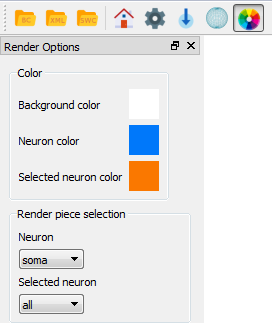
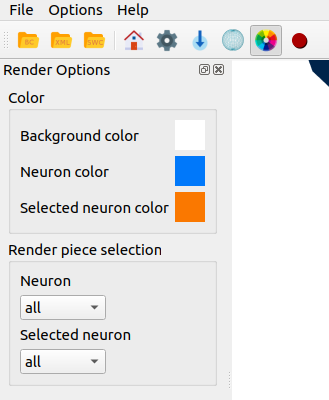
Version 0.2.0. Added recorder & updated runbook screenshots.

diff --git a/source/conf.py b/source/conf.py
@@ -18,11 +18,11 @@
 # -- Project information -----------------------------------------------------
 
 project = 'NeuroTessMesh'
-copyright = '2021, Universidad Rey Juan Carlos'
+copyright = '2022, Universidad Rey Juan Carlos'
 author = 'Félix de las Pozas Álvarez'
 
 # The full version, including alpha/beta/rc tags
-release = '0.1.1'
+release = '0.2.0'
 
 
 # -- General configuration ---------------------------------------------------
@@ -67,9 +67,9 @@ latex_maketitle = r'''
 \begin{center}
   \includegraphics[width=6cm,height=6cm]{neurotessmesh.png}\\[8ex]
   {\Huge NeuroTessMesh Documentation}\\[4ex]
-  {\Large Version 0.1.1}\\[4ex]
+  {\Large Version 0.2.0}\\[4ex]
   {\Large Juan Jos\'{e} Garc\'{i}a Cantero \& F\'{e}lix de las Pozas \'{A}lvarez}\\[4ex]
-  {\Large December 2021}\\[16ex]
+  {\Large February 2022}\\[16ex]
   {\Large Visualization \& Graphics Lab, Universidad Rey Juan Carlos}\\[4ex]
   \includegraphics[width=3cm,height=3cm]{logo.png}
 \end{center}
@@ -90,7 +90,7 @@ latex_elements = {
     %\fancyfoot[LO]{{\py@HeaderFamily\nouppercase{\rightmark}}}
     %\fancyfoot[RE]{{\py@HeaderFamily\nouppercase{\leftmark}}}
 % add copyright stuff
-    \fancyfoot[LO,RE]{{ \textcopyright\ 2021 Visualization \& Graphics Lab VG-Lab URJC.}}
+    \fancyfoot[LO,RE]{{ \textcopyright\ 2022 Visualization \& Graphics Lab VG-Lab URJC.}}
 % again original stuff
     \fancyhead[LE,RO]{{\py@HeaderFamily \@title\sphinxheadercomma\py@release}}
     \renewcommand{\headrulewidth}{0.4pt}
@@ -104,7 +104,7 @@ latex_elements = {
     \renewcommand{\footrulewidth}{0.4pt}
 % add copyright stuff for example at left of footer on odd pages,
 % which is the case for chapter opening page by default
-    \fancyfoot[LO,RE]{{ \textcopyright\ 2021 Visualization \& Graphics Lab VG-Lab URJC.}}
+    \fancyfoot[LO,RE]{{ \textcopyright\ 2022 Visualization \& Graphics Lab VG-Lab URJC.}}
     }
 \makeatother
 ''',

diff --git a/source/02-NeuroTessMeshUserInterface.rst b/source/02-NeuroTessMeshUserInterface.rst
@@ -48,7 +48,7 @@ Configuration
 .. figure:: images/NTMimage002.png
    :alt: Configuration panel
    :align: center
-   :width: 226
+   :width: 203
    :scale: 80%
 
    Configuration panel.
@@ -73,7 +73,7 @@ Render panel
 .. figure:: images/NTMimage003.png
    :alt: Render panel
    :align: center
-   :width: 272
+   :width: 329
    :scale: 80%
 
    Render panel.
@@ -95,7 +95,7 @@ Edit and save panel
 .. figure:: images/NTMimage004.png
    :alt: Edit and save panel
    :align: center
-   :width: 842
+   :width: 1001
    :scale: 60%
 
    Edit and save panel.
@@ -108,7 +108,45 @@ The camera can be manipulated using the mouse. The movements are:
   - Rotation: mouse left button + mouse movement. 
   - Translation: mouse scroll button + mouse movement. 
   - Zoom: mouse scroll to zoom in and out.
-  
+
+--------
+Recorder
+--------
+
+The recording feature can be activated using the **Options** menu or by clicking the Recorder icon in the toolbar. The user will be presented with the recorder configuration dialog (:numref:`figA`).
+
+.. _figA:
+
+.. figure:: images/NTMimage010.png
+   :alt: Recorder standard configuration dialog.
+   :align: center
+   :width: 802
+   :scale: 60%
+
+   Recorder standard configuration dialog. 
+
+The recorder will generate a mp4 video if the media application **ffmpeg** is detected and available, if not the generated output will be individual frames. The frames per second of the output can be specified here. The user can specify the input of the recording, being the main application window or just the 3D viewport.
+
+In the advanced configuration dialog (:numref:`figB`) the user can modify additional options as which worker (video or frames) to use to generate the output. The advanced configuration dialog can be enabled by checking the **Advanced recorder options checkbox** in the Options menu).
+
+.. _figB:
+
+.. figure:: images/NTMimage011.png
+   :alt: Recorder advanced configuration dialog.
+   :align: center
+   :width: 802
+   :scale: 60%
+
+   Recorder advanced configuration dialog. 
+
+Using the advanced configuration an area of the application can be selected for recording as input.
+
+If the output is a video the user can specify the location of the generated file using the Select button. If the output is a sequence of frames the user can specify the destination directory using the Select button in the dialog.
+
+The dimensions of the output are shown and can be modified with the scale options.
+
+While the recorder is working the associated toolbar button will remain down and the user must click it again to stop it. The recorder can also be stopped using the Recorder button in the Tools menu or the keyboard shortcut **Ctrl + R**.
+
 ------------------
 Keys and shortcuts
 ------------------
@@ -124,4 +162,5 @@ Keys and shortcuts
   - **Render options**: Ctrl + B
   - **Edit and save**: Ctrl + M
   - **Configuration**: Ctrl + C
+  - **Toggle Recorder**: Ctrl + R
 

diff --git a/source/01-Introduction.rst b/source/01-Introduction.rst
@@ -1,11 +1,10 @@
-.. note::
-   This manual is still under development and there are some incomplete parts, marked as 'Work in progress'.
-
 ==========================
 NeuroTessMesh Introduction
 ==========================
 
 **NeuroLOTs** is a set of libraries and tools that implement a method for generating neuronal meshes and for visualizing them at different levels of detail using GPU-based tessellation. As a part of NeuroLOTs, **NeuroTessMesh** provides a visual environment for the generation of 3D polygonal meshes that approximate the membrane of neuronal cells, from the morphological tracings that describe the morphology of the neurons. The 3D models can be tessellated at different levels of detail, providing either homogeneous or adaptive resolution along the model. The soma shape is recovered from the incomplete information of the tracings, applying a physical deformation model that can be interactively adjusted. The adaptive refinement process performed in the GPU generates meshes that allow good visual quality geometries at an affordable computational cost, both in terms of memory and rendering time. NeuroTessMesh is the front-end GUI to NeuroLOTs framework. 
+
+This documentation is for NeuroTessMesh version 0.2.0 software that can be obtained from the homepage.
 
 ---------------------
 Hardware requirements
@@ -119,9 +118,9 @@ Docker example
 
   xhost +local:docker
   # Pull the image.
-  docker pull vglab/neurotessmesh:0.1.1-nvidia-ubuntu-16.04
+  docker pull vglab/neurotessmesh:0.2.0-nvidia-ubuntu-16.04
   # Download example data
   wget http://neuromorpho.org/dableFiles/allen%20cell%20types/CNG%20version/H16-03-001-01-09-01_559391771_m.CNG.swc
   # Run example
-  docker run --gpus 1 -ti --rm -e DISPLAY -v /tmp/.X11-unix:/tmp/.X11-unix -v /etc/machine-id:/etc/machine-id -v $(pwd)/H16-03-001-01-09-01_559391771_m.CNG.swc:/H16-03-001-01-09-01_559391771_m.CNG.swc --privileged vglab/neurotessmesh:0.1.1-nvidia-ubuntu-16.04 /usr/bin/NeuroTessMesh -swc /H16-03-001-01-09-01_559391771_m.CNG.swc
+  docker run --gpus 1 -ti --rm -e DISPLAY -v /tmp/.X11-unix:/tmp/.X11-unix -v /etc/machine-id:/etc/machine-id -v $(pwd)/H16-03-001-01-09-01_559391771_m.CNG.swc:/H16-03-001-01-09-01_559391771_m.CNG.swc --privileged vglab/neurotessmesh:0.2.0-nvidia-ubuntu-16.04 /usr/bin/NeuroTessMesh -swc /H16-03-001-01-09-01_559391771_m.CNG.swc
 

diff --git a/source/03-Runbook.rst b/source/03-Runbook.rst
@@ -12,7 +12,7 @@ Runbook
 .. figure:: images/NTMimage005.png
    :alt: Opening a file.
    :align: center
-   :width: 1000
+   :width: 997
    :scale: 60%
 
    Opening a file.
@@ -28,7 +28,7 @@ Runbook
 .. figure:: images/NTMimage006.png
    :alt: 3D view navigation.
    :align: center
-   :width: 1000
+   :width: 1020
    :scale: 60%
 
    3D View navigation.
@@ -44,7 +44,7 @@ Runbook
 .. figure:: images/NTMimage007.png
    :alt: Render options manipulation.
    :align: center
-   :width: 998
+   :width: 1020
    :scale: 60%
 
    Render options manipulation.
@@ -60,7 +60,7 @@ Runbook
 .. figure:: images/NTMimage008.png
    :alt: Reconstruction parameters manipulation.
    :align: center
-   :width: 1001
+   :width: 1020
    :scale: 60%
 
    Reconstruction parameters manipulation.
